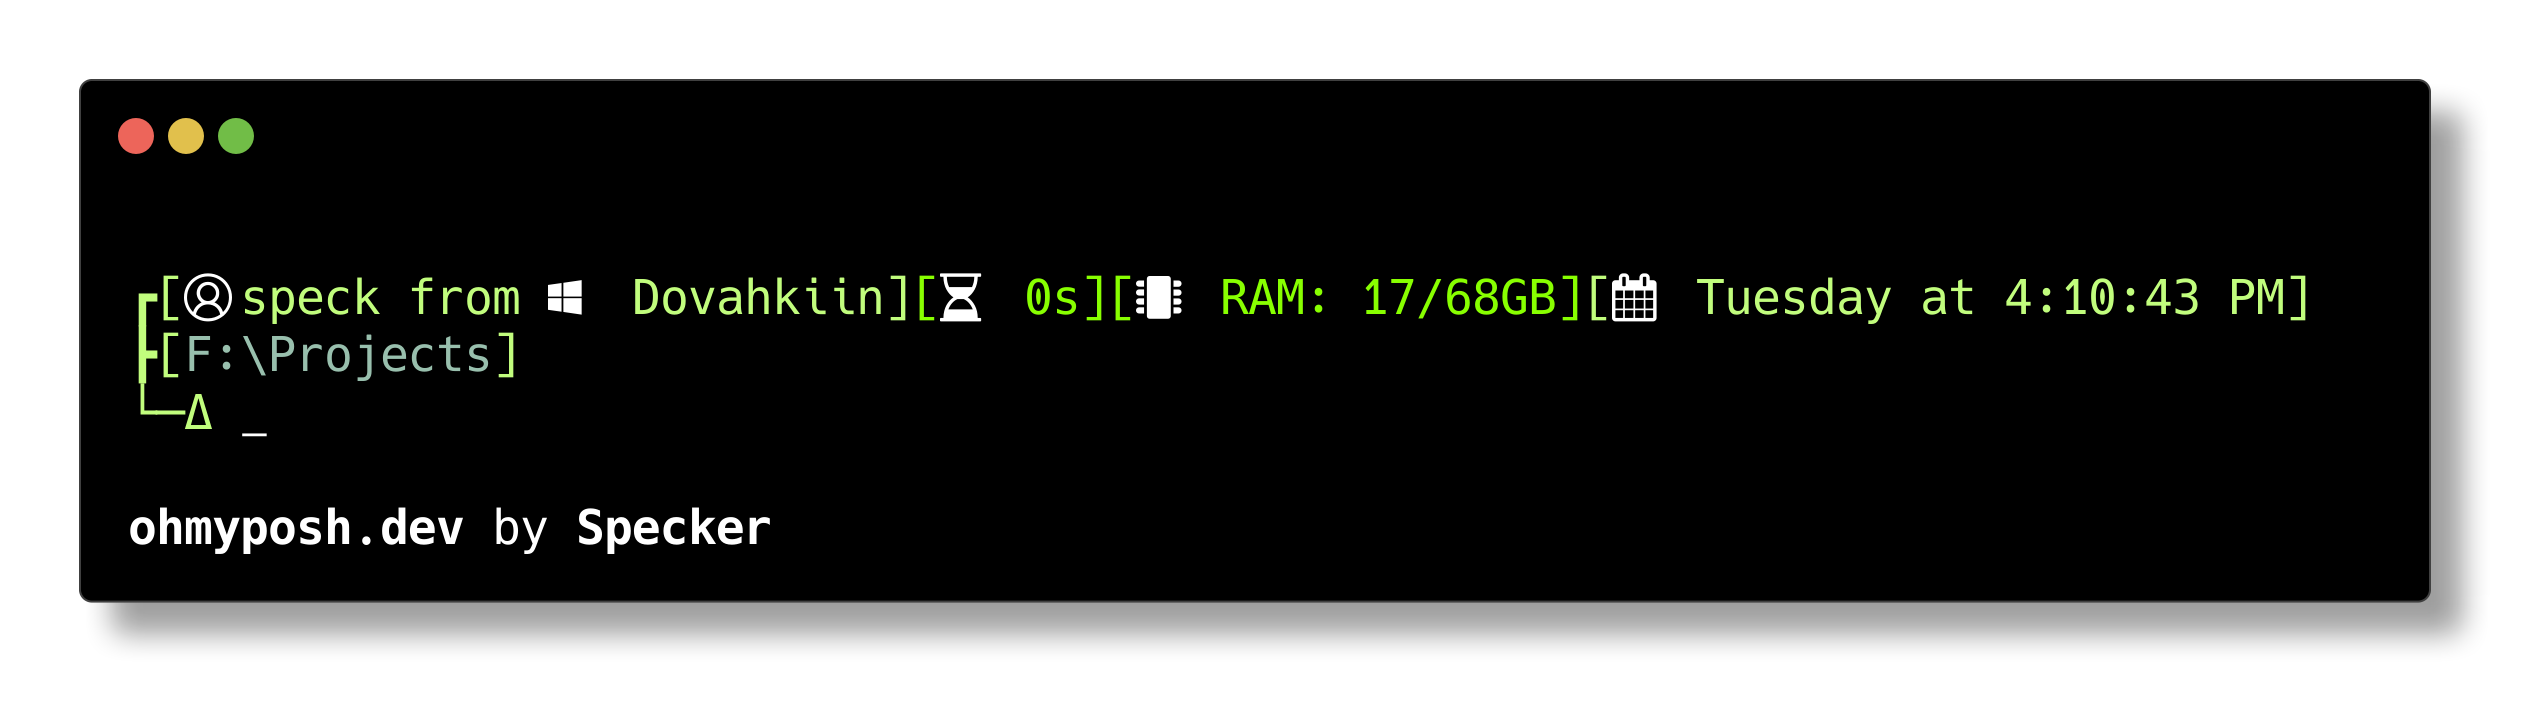
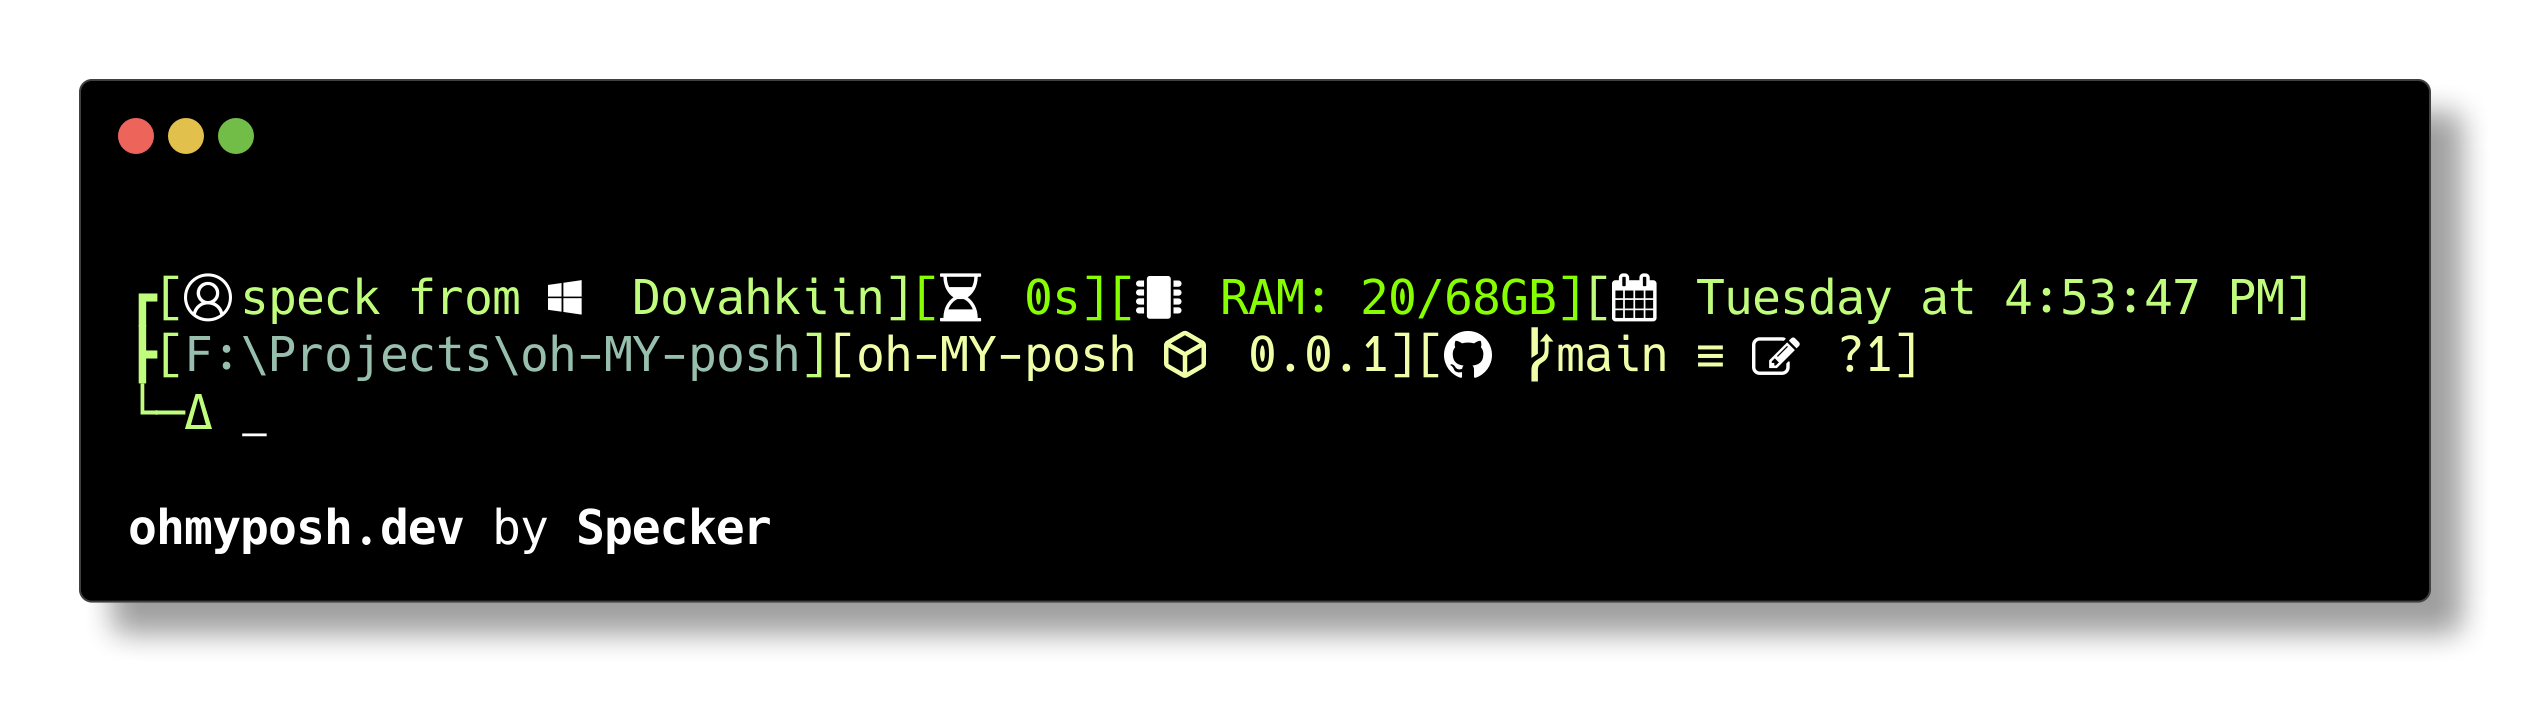
Updated Readme

Changed region(s): [[0.1865, 0.4628, 0.7459, 0.5245], [0.808, 0.4011, 0.8702, 0.432], [0.5283, 0.3703, 0.5594, 0.432]]

diff --git a/gaijin/Readme.md b/gaijin/Readme.md
@@ -5,4 +5,6 @@
 ## Changes
  - SSH Indicator
  - OS Indicator
+ - Root Indicator
+ - Project Name
  - Color Palette
